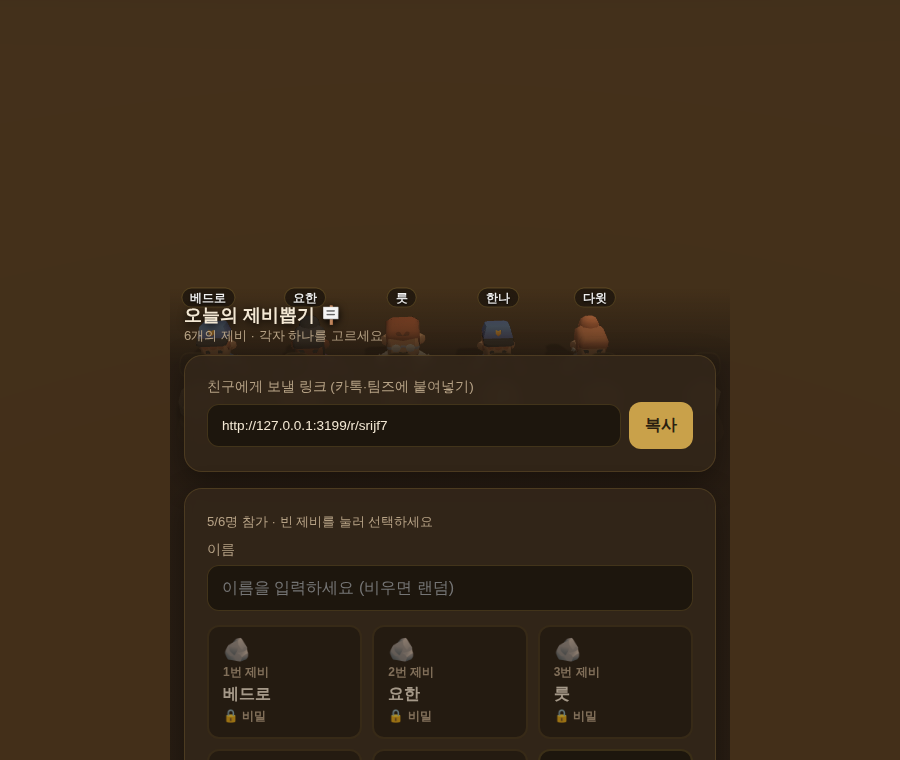
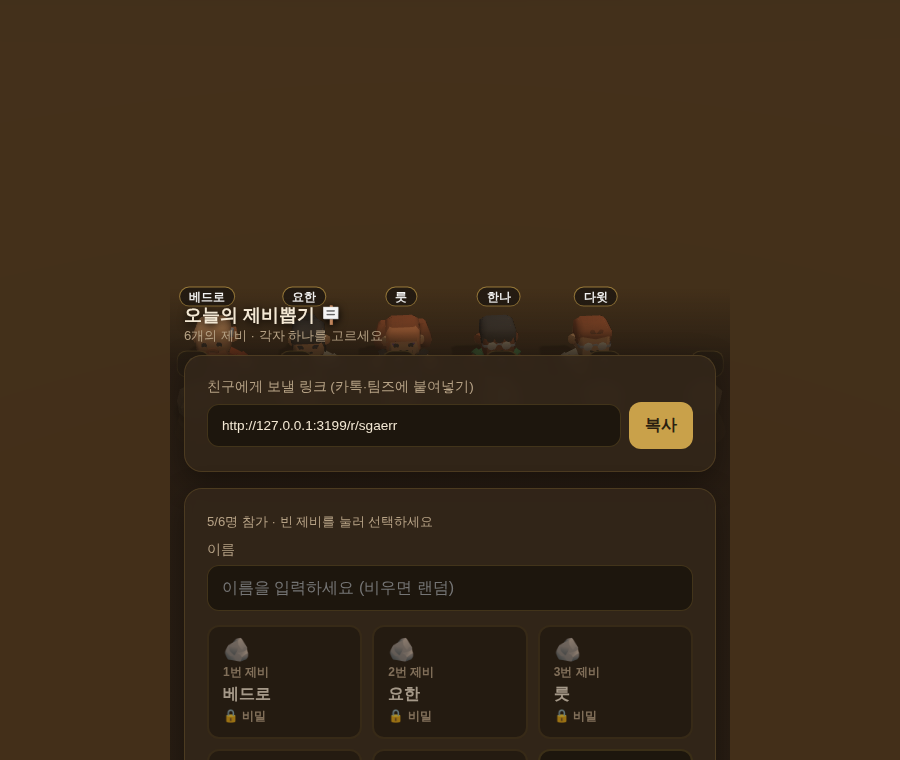
3D 라벨 가독성 개선 + SEO/OG 메타·파비콘·OG 이미지 추가
- style.css: 닉네임/결과 라벨의 흐릿한 text-shadow 제거, 불투명 배경 +
  흰 글씨로 또렷하게(.nick/.result, hit/win 상태 포함)
- index.html/room.html: description·theme-color·favicon·apple-touch-icon,
  Open Graph(og:title/description/image 1200x630/locale)·Twitter Card 메타
- public/favicon.svg(이모지), public/og.png(1200x630 카드), public/icon-512.png 추가
- docs 스크린샷 갱신(개선된 라벨 반영)

https://claude.ai/code/session_013WHbUSDAhg86uATCHs8PKf

diff --git a/public/style.css b/public/style.css
@@ -187,26 +187,25 @@ body.has3d .sub { margin: 0 0 10px; font-size: .82rem; }
 body.has3d .card { background: rgba(51,39,26,.86); backdrop-filter: blur(5px); }
 body.has3d.revealing .wrap { opacity: 0; pointer-events: none; transition: opacity .3s; }
 
-/* 머리 위 닉네임 라벨 (CSS2D) */
+/* 머리 위 닉네임 라벨 (CSS2D) — 그림자 없이 또렷하게, 불투명 배경 */
 .nick {
   pointer-events: none; white-space: nowrap;
-  font: 600 12px/1.2 -apple-system, "Apple SD Gothic Neo", "Malgun Gothic", sans-serif;
-  color: #fff; background: rgba(29,22,13,.82); border: 1px solid rgba(201,161,74,.3);
-  padding: 2px 8px; border-radius: 999px; transform: translateY(-2px);
-  text-shadow: 0 1px 2px #000;
+  font: 700 12px/1.2 -apple-system, "Apple SD Gothic Neo", "Malgun Gothic", sans-serif;
+  color: #fff; background: #241b12; border: 1.5px solid rgba(201,161,74,.7);
+  padding: 2px 9px; border-radius: 999px; transform: translateY(-2px);
 }
-.nick.me { border-color: var(--accent); background: rgba(201,161,74,.45); color: #2a1f10; }
-.nick.win { border-color: var(--good); background: rgba(111,174,91,.55); }
+.nick.me { border-color: var(--accent); background: var(--accent); color: #2a1f10; }
+.nick.win { border-color: #cfe8c2; background: #3c7a2e; color: #fff; }
 
-/* 결과 라벨 (제비 위, CSS2D) */
+/* 결과 라벨 (제비 위, CSS2D) — 흰 글씨 + 불투명 배경, 그림자 제거로 선명하게 */
 .result {
   pointer-events: none; white-space: nowrap;
-  font: 700 13px/1.2 -apple-system, "Apple SD Gothic Neo", "Malgun Gothic", sans-serif;
-  color: var(--text); background: rgba(58,43,24,.92); border: 1px solid rgba(201,161,74,.35);
-  padding: 4px 10px; border-radius: 10px; text-shadow: 0 1px 2px #000;
+  font: 800 14px/1.2 -apple-system, "Apple SD Gothic Neo", "Malgun Gothic", sans-serif;
+  color: #fff; background: #2a2012; border: 1.5px solid rgba(201,161,74,.7);
+  padding: 4px 11px; border-radius: 10px;
   transition: transform .2s;
 }
-.result.hit { background: rgba(111,174,91,.95); color: #112408; transform: scale(1.18); border-color: var(--good); }
+.result.hit { background: #3c7a2e; color: #fff; transform: scale(1.18); border-color: #cfe8c2; }
 
 /* 3D 연출 배너 */
 .r3d-drum, .r3d-verdict {

diff --git a/public/room.html b/public/room.html
@@ -3,7 +3,23 @@
 <head>
   <meta charset="utf-8" />
   <meta name="viewport" content="width=device-width, initial-scale=1, viewport-fit=cover" />
-  <title>제비뽑기 · 성경의 제비뽑기</title>
+  <title>성경의 제비뽑기 · 온라인 제비뽑기</title>
+  <meta name="description" content="잠언 16:33 — 각자 제비(돌)를 고르고 던지는 순간 결과가 드러나는 무료 온라인 제비뽑기. 링크를 카톡·팀즈로 공유하세요. 데이터베이스 없이 동작합니다." />
+  <meta name="theme-color" content="#c9a14a" />
+  <link rel="icon" href="/favicon.svg" type="image/svg+xml" />
+  <link rel="apple-touch-icon" href="/icon-512.png" />
+  <meta property="og:type" content="website" />
+  <meta property="og:site_name" content="성경의 제비뽑기" />
+  <meta property="og:title" content="성경의 제비뽑기" />
+  <meta property="og:description" content="각자 제비를 고르고 던지는 순간 결과가 드러나는 무료 온라인 제비뽑기. 링크 공유 · 3D 연출 · DB 없음." />
+  <meta property="og:image" content="/og.png" />
+  <meta property="og:image:width" content="1200" />
+  <meta property="og:image:height" content="630" />
+  <meta property="og:locale" content="ko_KR" />
+  <meta name="twitter:card" content="summary_large_image" />
+  <meta name="twitter:title" content="성경의 제비뽑기" />
+  <meta name="twitter:description" content="각자 제비를 고르고 던지는 순간 결과가 드러나는 무료 온라인 제비뽑기. 링크 공유 · 3D 연출 · DB 없음." />
+  <meta name="twitter:image" content="/og.png" />
   <link rel="stylesheet" href="/style.css" />
   <script type="importmap">
     { "imports": { "three": "/vendor/three.module.js" } }

diff --git a/public/index.html b/public/index.html
@@ -3,7 +3,23 @@
 <head>
   <meta charset="utf-8" />
   <meta name="viewport" content="width=device-width, initial-scale=1, viewport-fit=cover" />
-  <title>제비뽑기 · 성경의 제비뽑기</title>
+  <title>성경의 제비뽑기 · 온라인 제비뽑기</title>
+  <meta name="description" content="잠언 16:33 — 각자 제비(돌)를 고르고 던지는 순간 결과가 드러나는 무료 온라인 제비뽑기. 링크를 카톡·팀즈로 공유하세요. 데이터베이스 없이 동작합니다." />
+  <meta name="theme-color" content="#c9a14a" />
+  <link rel="icon" href="/favicon.svg" type="image/svg+xml" />
+  <link rel="apple-touch-icon" href="/icon-512.png" />
+  <meta property="og:type" content="website" />
+  <meta property="og:site_name" content="성경의 제비뽑기" />
+  <meta property="og:title" content="성경의 제비뽑기" />
+  <meta property="og:description" content="각자 제비를 고르고 던지는 순간 결과가 드러나는 무료 온라인 제비뽑기. 링크 공유 · 3D 연출 · DB 없음." />
+  <meta property="og:image" content="/og.png" />
+  <meta property="og:image:width" content="1200" />
+  <meta property="og:image:height" content="630" />
+  <meta property="og:locale" content="ko_KR" />
+  <meta name="twitter:card" content="summary_large_image" />
+  <meta name="twitter:title" content="성경의 제비뽑기" />
+  <meta name="twitter:description" content="각자 제비를 고르고 던지는 순간 결과가 드러나는 무료 온라인 제비뽑기. 링크 공유 · 3D 연출 · DB 없음." />
+  <meta name="twitter:image" content="/og.png" />
   <link rel="stylesheet" href="/style.css" />
 </head>
 <body>
